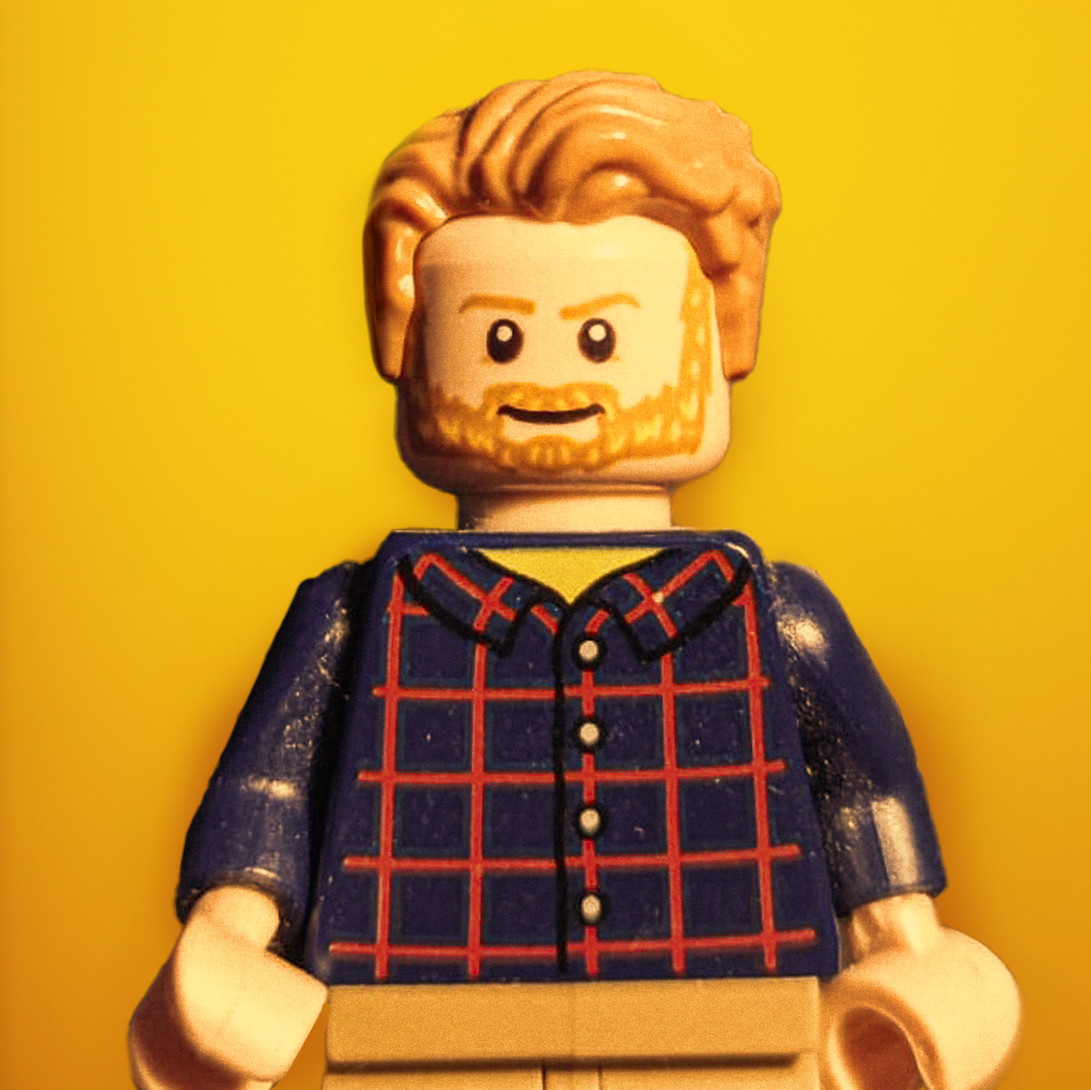
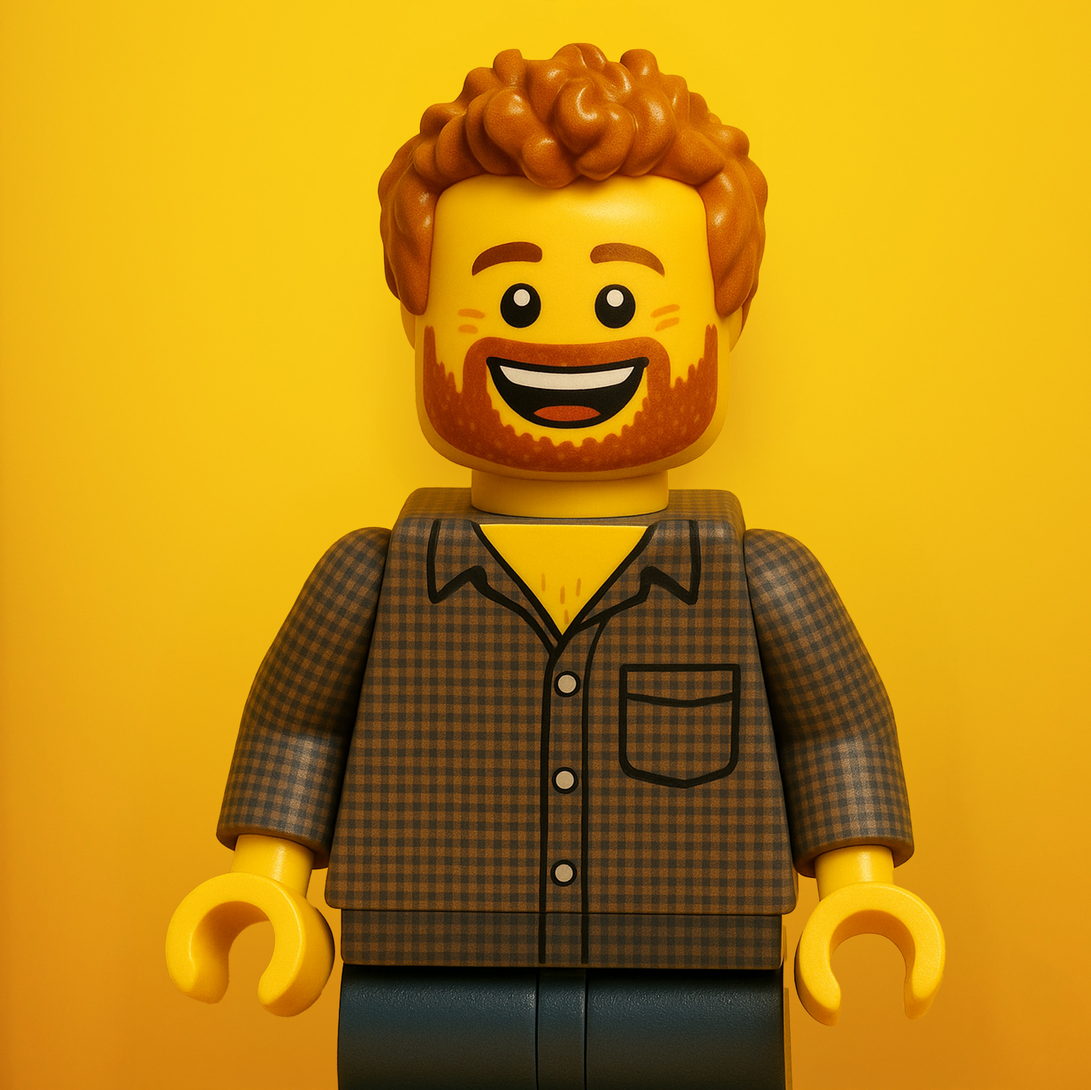
easter egg

diff --git a/assets/js/image-swap.js b/assets/js/image-swap.js
@@ -1,0 +1,26 @@
+document.addEventListener('DOMContentLoaded', function () {
+  const img = document.querySelector('.profile img');
+  const source = document.querySelector('.responsive-img-srcset');
+
+  if (!img || !source) return;
+
+  const image1 = '/assets/img/pf.jpg';
+  const image2 = '/assets/img/pf-lego-2.png'; // alternate image
+  const sound = new Audio('/assets/sound/click.mp3');
+  let toggled = false;
+
+  img.addEventListener('dblclick', () => {
+    const currentImg = toggled ? image1 : image2;
+
+    // Update img src and source srcset
+    img.src = currentImg;
+    source.srcset = currentImg;
+
+    // Toggle state
+    toggled = !toggled;
+
+    // Play sound
+    sound.currentTime = 0;
+    sound.play();
+  });
+});

diff --git a/_pages/home.md b/_pages/home.md
@@ -21,3 +21,4 @@ There are many things that have my interest! I particularly like [electronics](b
 If you'd like to get in touch, please visit my [contact page](contact).
 
 {% include iot-devices.liquid shields=false %}
+<script src="/assets/js/image-swap.js"></script>
